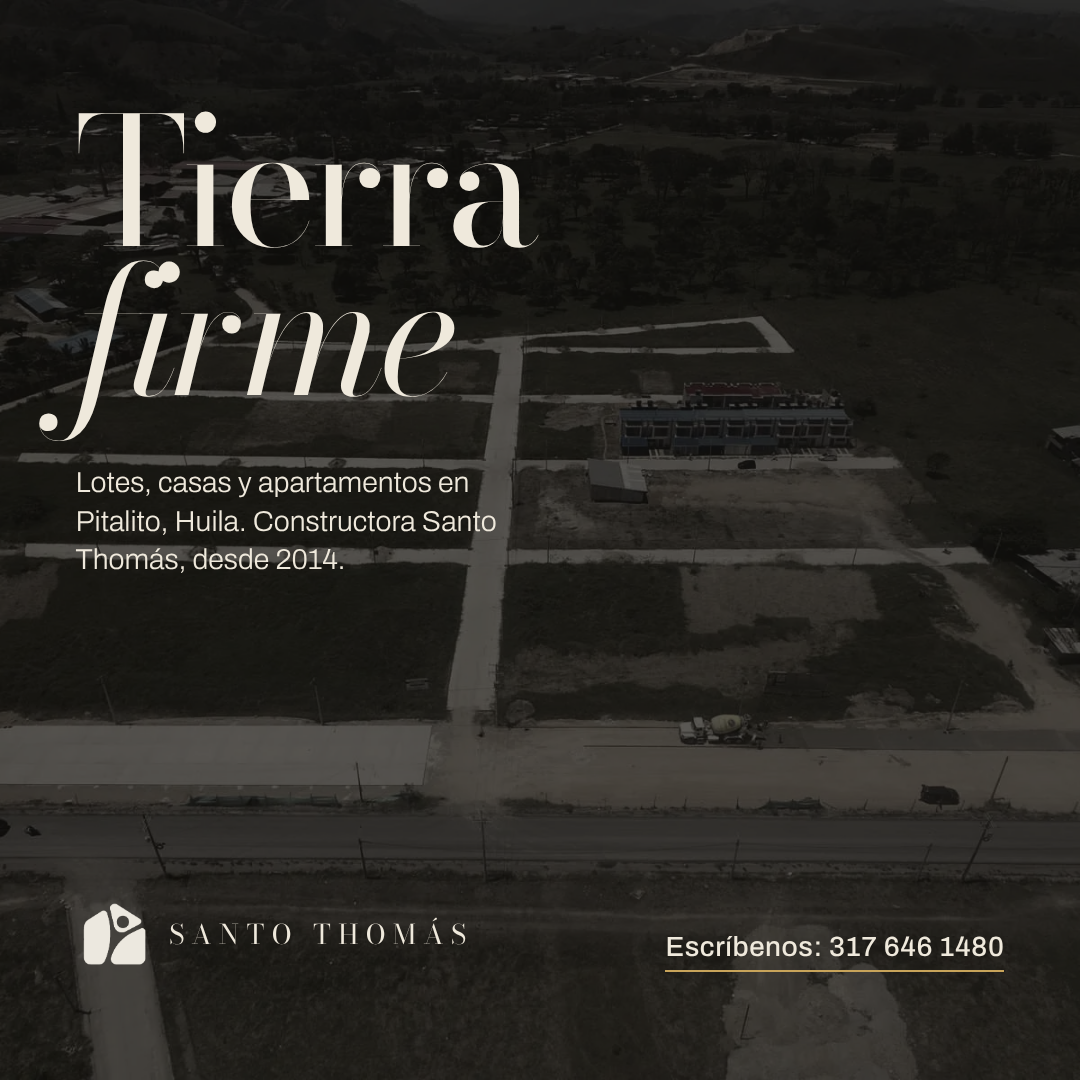
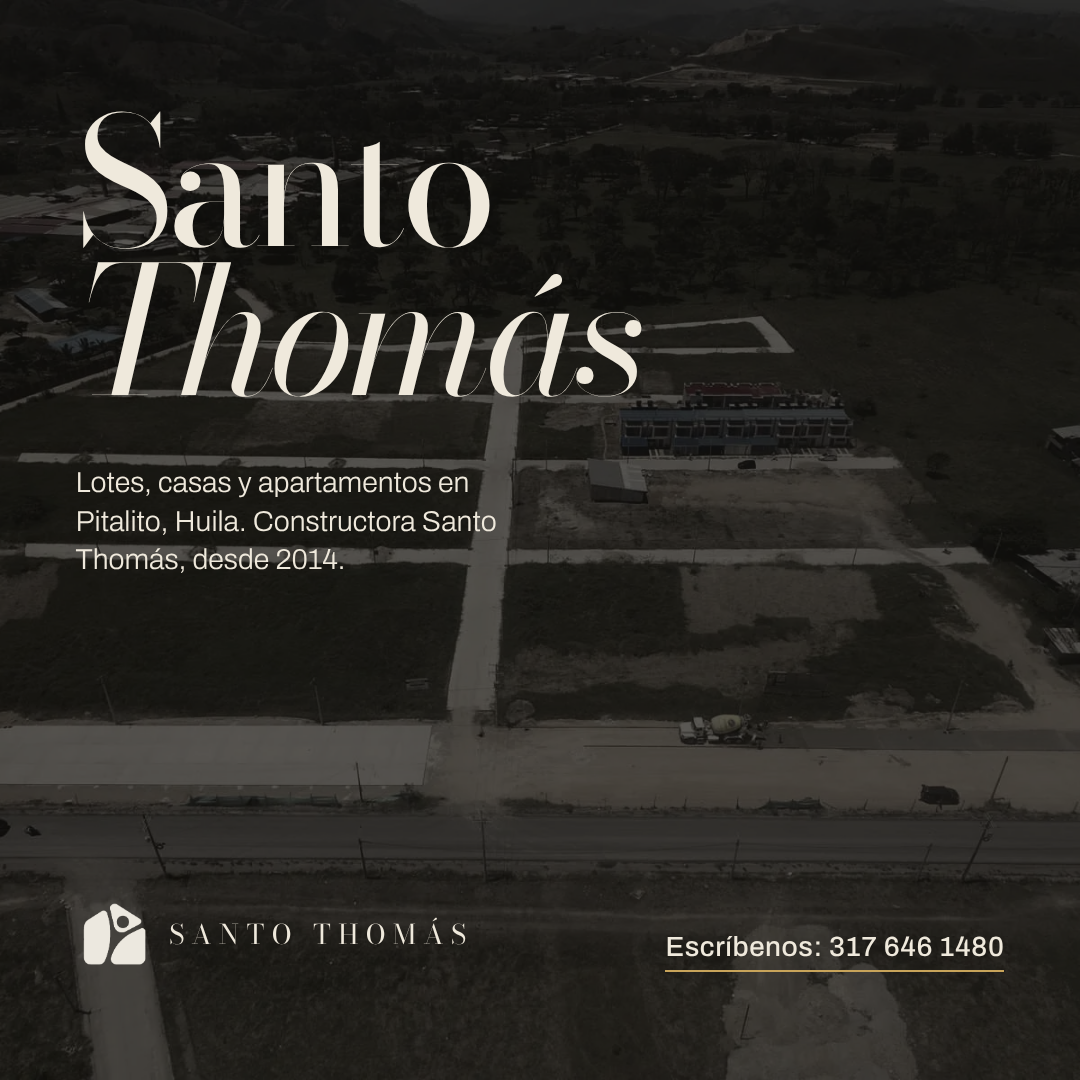
Hero carries the Santo Thomás name and the glass-revealed mark
Replaces the 'Tierra firme' headline with the company name set large,
and moves the glass logo reveal from a full-screen intro into the hero,
beside the second line. Banners and brand board follow.

Claude-Session: https://claude.ai/code/session_01EuNx7qHGaqCun31qjyEdxN

Changed region(s): [[0.0306, 0.0917, 0.6111, 0.3972]]

diff --git a/santo-thomas/index.html b/santo-thomas/index.html
@@ -107,29 +107,24 @@ em{font-style:italic}
 .barra nav a:hover{color:var(--oro)}
 @media(max-width:899px){.barra{flex-wrap:wrap;gap:6px var(--m);padding-block:20px}.barra nav{width:100%}.barra ul{justify-content:space-between}.barra nav a{font-size:11px;letter-spacing:.16em}.barra .wa{display:none}}
 
-/* Entrada con el logo en vidrio */
-.intro{display:none}
-.con-intro .intro{display:grid;place-items:center;position:fixed;inset:0;z-index:20;background:var(--negro);transition:transform 1.1s var(--salir)}
-.intro .vidrio{position:absolute;inset:0}
-.intro .nombre{position:absolute;left:0;right:0;top:calc(50% + min(27vh,230px));text-align:center;font-family:var(--serif);font-size:clamp(18px,1.9vw,26px);letter-spacing:.42em;text-transform:uppercase;padding-left:.42em;opacity:0;transform:translateY(10px);transition:opacity .9s var(--salir),transform .9s var(--salir)}
-.intro.nombrada .nombre{opacity:1;transform:none}
-.intro.fuera{transform:translateY(-100%)}
-
 /* Portada: dos palabras enormes que pisan las fotos */
 .portada{position:relative;min-height:max(100svh,700px);display:grid;grid-template-columns:repeat(12,minmax(0,1fr));grid-template-rows:1fr auto;column-gap:var(--m);padding:120px var(--m) clamp(28px,5vh,56px)}
-.portada h1{grid-column:1/-1;grid-row:1;align-self:center;position:relative;z-index:2;font-size:clamp(84px,19.5vw,330px);line-height:.8;letter-spacing:-.045em;pointer-events:none}
-.portada h1 .l2{padding-left:21vw;font-style:italic}
-.portada .f1{grid-column:8/12;grid-row:1;align-self:center;height:min(66vh,720px);z-index:1}
-.portada .f2{position:absolute;left:calc(var(--m) + 31vw);bottom:clamp(28px,5vh,56px);width:17vw;aspect-ratio:4/3;z-index:3}
+.portada h1{grid-column:1/-1;grid-row:1;align-self:center;position:relative;z-index:2;font-size:clamp(76px,16.6vw,290px);line-height:.82;letter-spacing:-.045em;pointer-events:none;mix-blend-mode:difference}
+.portada h1 .l2{padding-left:16vw;font-style:italic}
+/* El isotipo vive en la sangría de la segunda línea; el vidrio lo revela al abrir */
+.portada .sello{grid-column:1/4;grid-row:1;align-self:center;position:relative;z-index:1;width:21vw;margin-left:-3.4vw;aspect-ratio:1;transform:translateY(7.6vw);cursor:pointer}
+.portada .sello img{position:absolute;inset:0;margin:auto;width:42%;height:auto}
+.portada .sello.vivo img{visibility:hidden}
+.portada .f1{grid-column:9/13;grid-row:1;align-self:center;height:min(66vh,720px);z-index:1}
 .portada .pie{grid-column:1/-1;grid-row:2;display:grid;grid-template-columns:repeat(12,minmax(0,1fr));column-gap:var(--m);align-items:end;position:relative;z-index:4}
 .portada .apoyo{grid-column:1/5;display:grid;gap:26px;justify-items:start;padding-top:34px}
 .portada .apoyo p{max-width:34ch}
 .portada .coord{grid-column:9/13;justify-self:end;text-align:right}
 @media(max-width:899px){
   .portada{display:block;padding-top:132px;min-height:0}
-  .portada h1{font-size:25.5vw}.portada h1 .l2{padding-left:15vw}
-  .portada .f1{height:58vh;margin-top:-9vw;margin-left:18vw}
-  .portada .f2{display:none}
+  .portada h1{font-size:22.5vw}.portada h1 .l2{padding-left:9vw}
+  .portada .sello{width:44vw;transform:none;margin:-4vw 0 -2vw -9vw}
+  .portada .f1{height:58vh;margin-top:-7vw;margin-left:18vw}
   .portada .pie{display:block;margin-top:36px}.portada .coord{text-align:left;margin-top:32px}
 }
 
@@ -240,12 +235,6 @@ em{font-style:italic}
 </head>
 <body>
 <a class="salto" href="#contenido">Ir al contenido</a>
-<script>
-// La entrada se muestra una vez por visita, y nunca si se pidió menos movimiento.
-try { if (!sessionStorage.getItem('st-intro') && !matchMedia('(prefers-reduced-motion: reduce)').matches && document.createElement('canvas').getContext('webgl2')) document.documentElement.classList.add('con-intro'); } catch (e) {}
-</script>
-<div class="intro" id="intro" aria-hidden="true"><div class="vidrio" id="vidrio"></div><div class="nombre">Santo Thomás</div></div>
-
 <header class="barra">
   <a class="marca" href="#inicio" aria-label="Constructora Santo Thomás, inicio">
     <img src="img/isotipo-solido.png" width="900" height="887" alt="">
@@ -265,12 +254,10 @@ try { if (!sessionStorage.getItem('st-intro') && !matchMedia('(prefers-reduced-m
 <main id="contenido">
 
 <section class="portada" id="inicio" data-grupo>
-  <h1 aria-label="Tierra firme"><span class="linea"><span>Tierra</span></span><span class="linea l2" style="--i:1"><span>firme</span></span></h1>
+  <div class="sello" id="sello" role="img" aria-label="Isotipo de Santo Thomás"><img src="img/isotipo-solido.png" width="900" height="887" alt=""></div>
+  <h1 aria-label="Constructora Santo Thomás"><span class="linea"><span>Santo</span></span><span class="linea l2" style="--i:1"><span>Thomás</span></span></h1>
   <figure class="foto f1" data-tapa data-par style="--i:2">
     <img src="img/render-torre-vertical.webp" srcset="img/render-torre-vertical-800.webp 800w, img/render-torre-vertical.webp 946w" sizes="(min-width:900px) 32vw, 82vw" width="946" height="1600" fetchpriority="high" alt="Render de la Torre Santo Thomás vista desde la calle.">
-  </figure>
-  <figure class="foto f2" data-tapa style="--i:4">
-    <img src="img/aerea-loteo-800.webp" width="800" height="600" alt="Vista aérea de la urbanización: vías trazadas y manzanas loteadas.">
   </figure>
   <div class="pie">
     <div class="apoyo">
@@ -471,26 +458,19 @@ try { if (!sessionStorage.getItem('st-intro') && !matchMedia('(prefers-reduced-m
     grupos.forEach(function (g) { io.observe(g); });
   };
 
-  // Entrada: el isotipo dentro del vidrio; al terminar sube la cortina y arranca la portada.
-  var intro = document.getElementById('intro'), conIntro = raiz.classList.contains('con-intro'), alTerminar = [revelar];
-  function cerrarIntro() {
-    if (!conIntro) return; conIntro = false;
-    try { sessionStorage.setItem('st-intro', '1'); } catch (e) {}
-    intro.classList.add('fuera'); raiz.classList.remove('con-intro');
-    setTimeout(function () { alTerminar.forEach(function (f) { f(); }); }, 250);
-    setTimeout(function () { intro.remove(); }, 1200);
-  }
-  if (conIntro) {
-    var gota = window.GlassReveal && GlassReveal.play(document.getElementById('vidrio'), {
-      logo: 'img/isotipo-solido.png', look: 'dark', hold: 0.6,
-      settings: { background: '#0b0a08', plateColor: '#14120e', logoColor: '#efe9dc', tileSize: 360, present: 1.9, startZoom: 2.1 },
-      onStart: function () { setTimeout(function () { intro.classList.add('nombrada'); }, 1500); },
-      onEnd: cerrarIntro
+  // Portada: el isotipo aparece dentro de una gota de vidrio que lo refracta y luego lo suelta.
+  // Un toque sobre él repite la animación. Sin WebGL2 o con movimiento reducido queda la imagen fija.
+  var sello = document.getElementById('sello'), gota = null;
+  function vidrio() {
+    if (gota) gota.dispose();
+    gota = window.GlassReveal && GlassReveal.play(sello, {
+      logo: 'img/isotipo-solido.png', look: 'dark', fit: 1.28,
+      settings: { background: '#0b0a08', plateColor: '#14120e', logoColor: '#efe9dc', tileSize: 420, present: 2.2, startZoom: 2.1, finalScale: 1 },
+      onStart: function () { sello.classList.add('vivo'); }
     });
-    if (!gota) cerrarIntro();
-    else ['wheel', 'touchmove', 'keydown', 'click'].forEach(function (n) { window.addEventListener(n, cerrarIntro, { once: true, passive: true }); });
-    setTimeout(cerrarIntro, 7000);
-  } else revelar();
+  }
+  if (sello && !quieto) { vidrio(); sello.addEventListener('click', vidrio); }
+  revelar();
 
   // Manifiesto: cada palabra en su propio tramo, para encenderlas con el avance.
   var man = document.getElementById('manifiesto'), palabras = [];

diff --git a/santo-thomas/marca/brandkit.html b/santo-thomas/marca/brandkit.html
@@ -48,8 +48,8 @@ body{background:#1b1b19;font-family:Archivo,sans-serif;color:var(--cal)}
 <div id="t">
   <div class="p p1"><img src="../img/logo-claro.png" alt="Santo Thomás Constructora"><span class="et">Logotipo</span><span class="nu">01</span></div>
   <div class="p p2 claro"><div class="a"><img src="../img/logo-oscuro.png" alt=""></div><div class="b"><img src="../img/isotipo-solido.png" alt=""></div><span class="et">Versiones: sobre claro e isotipo</span><span class="nu" style="color:var(--gris)">02</span></div>
-  <div class="p p3"><div class="nav"><i></i><i></i><i></i><b>constructurasantothomas.com</b></div><canvas id="c3"></canvas><h3 class="serif">Tierra<br><em>firme</em></h3><span class="et">Sitio web</span><span class="nu">03</span></div>
-  <div class="p p4"><p class="serif">Tierra<br><em>firme.</em></p><span class="et">Idea de marca (propuesta)</span><span class="nu">04</span></div>
+  <div class="p p3"><div class="nav"><i></i><i></i><i></i><b>constructurasantothomas.com</b></div><canvas id="c3"></canvas><h3 class="serif">Santo<br><em>Thomás</em></h3><span class="et">Sitio web</span><span class="nu">03</span></div>
+  <div class="p p4"><p class="serif">Pitalito,<br><em>Huila.</em></p><span class="et">Lugar</span><span class="nu">04</span></div>
   <div class="p p5">
     <div style="background:#0b0a08">Negro<span>#0B0A08</span></div>
     <div style="background:#1c1914">Carbón<span>#1C1914</span></div>

diff --git a/santo-thomas/intro/glass-reveal.js b/santo-thomas/intro/glass-reveal.js
@@ -761,7 +761,7 @@ function play(host, opts) {
     const cw = canvas.clientWidth, ch = canvas.clientHeight;
     const w = Math.max(1, Math.round(cw * dpr)), h = Math.max(1, Math.round(ch * dpr));
     if (canvas.width !== w || canvas.height !== h) { canvas.width = w; canvas.height = h; }
-    const tile = Math.min(P.tileSize, Math.min(cw, ch) / 1.75);
+    const tile = Math.min(P.tileSize, Math.min(cw, ch) / (opts.fit || 1.75));
     renderer.render(frameAt(time, P), w, h, tile * dpr);
     if (time >= end) { setTimeout(finish, (opts.hold || 0) * 1000); return; }
     raf = requestAnimationFrame(tick);

diff --git a/santo-thomas/banners/banners.html b/santo-thomas/banners/banners.html
@@ -44,7 +44,7 @@ h1 em{font-style:italic}
   <div class="img"></div><div class="velo"></div><canvas id="c"></canvas><div class="panel"></div><div class="bloque"></div>
   <div class="zona">
     <div>
-      <h1>Tierra <em>firme</em></h1>
+      <h1>Santo <em>Thomás</em></h1>
       <p class="sub">Lotes, casas y apartamentos en Pitalito, Huila. Constructora Santo Thomás, desde 2014.</p>
     </div>
     <div class="fila">
